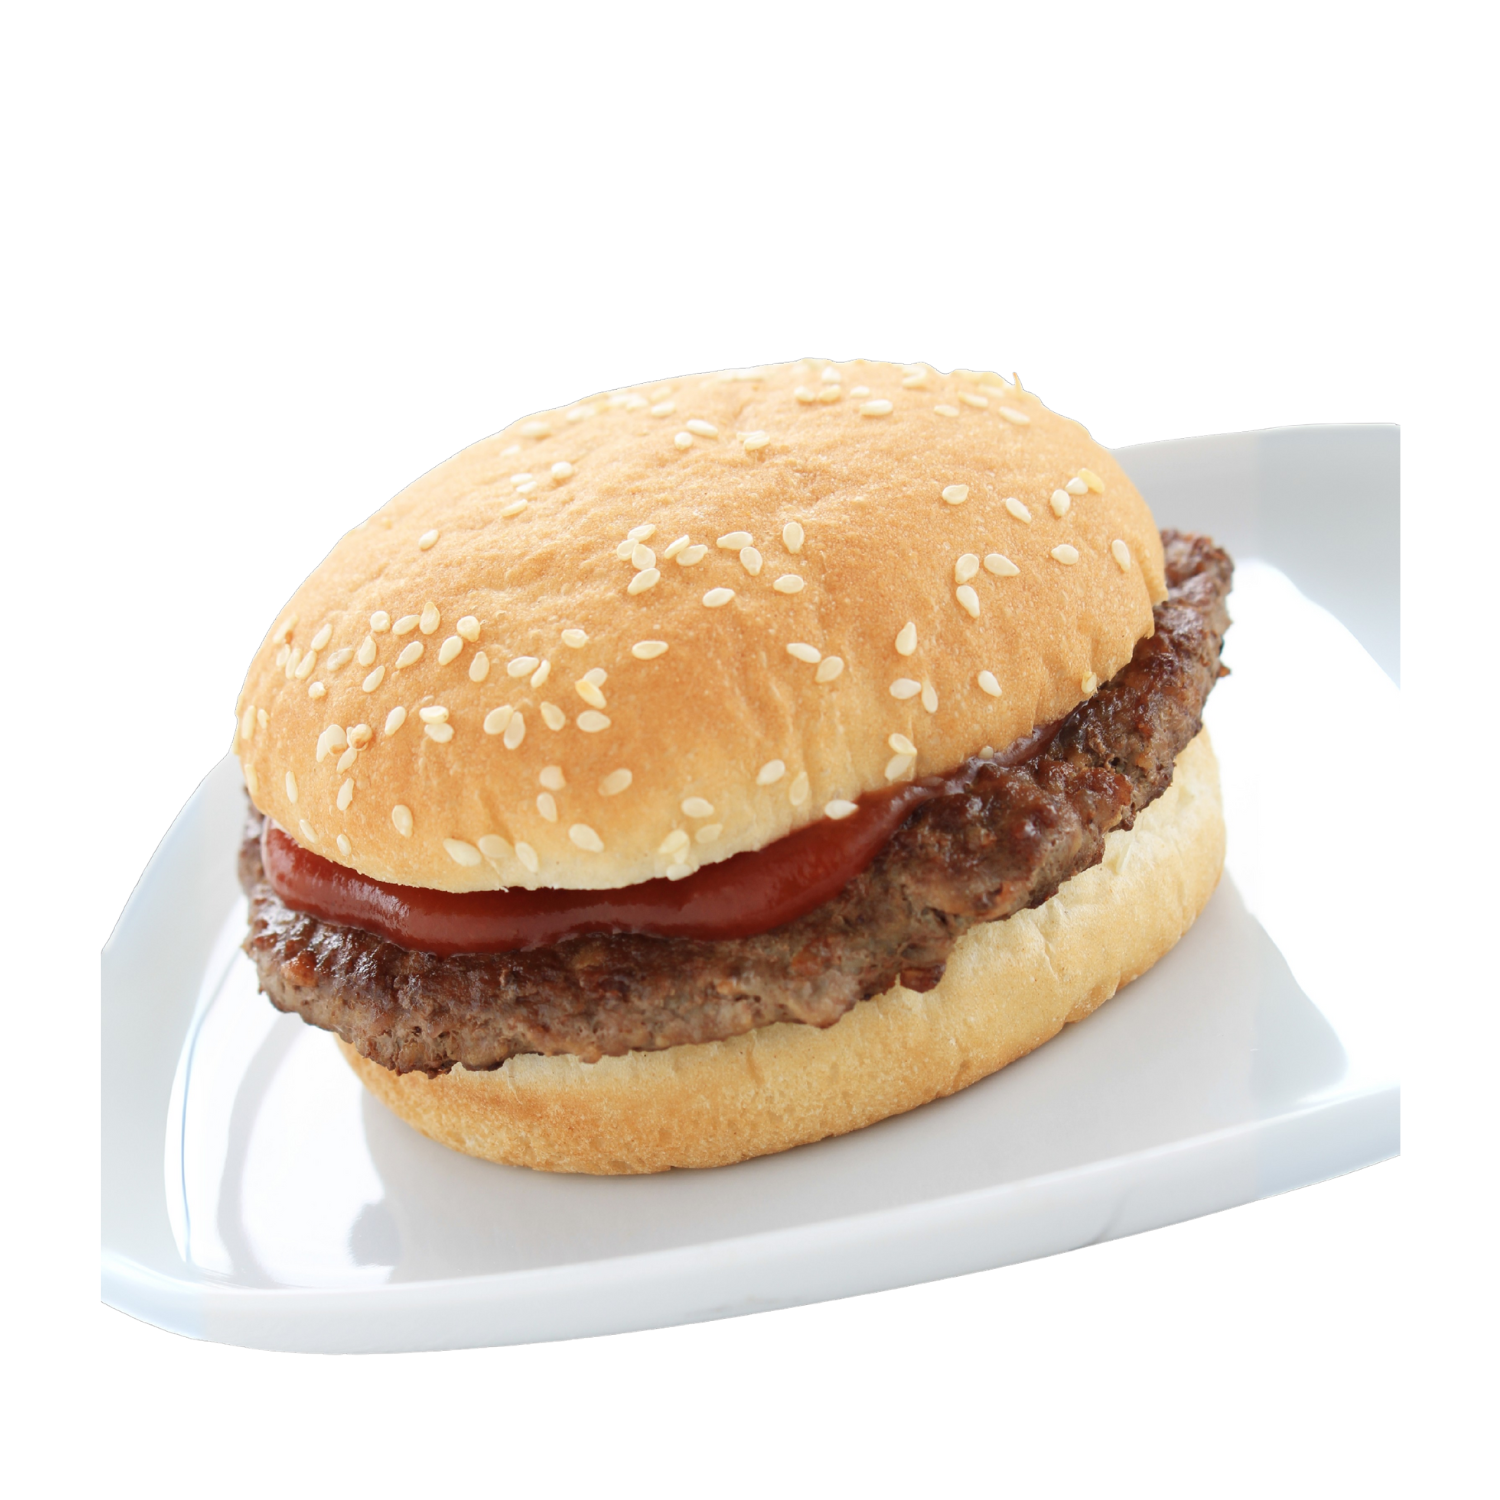
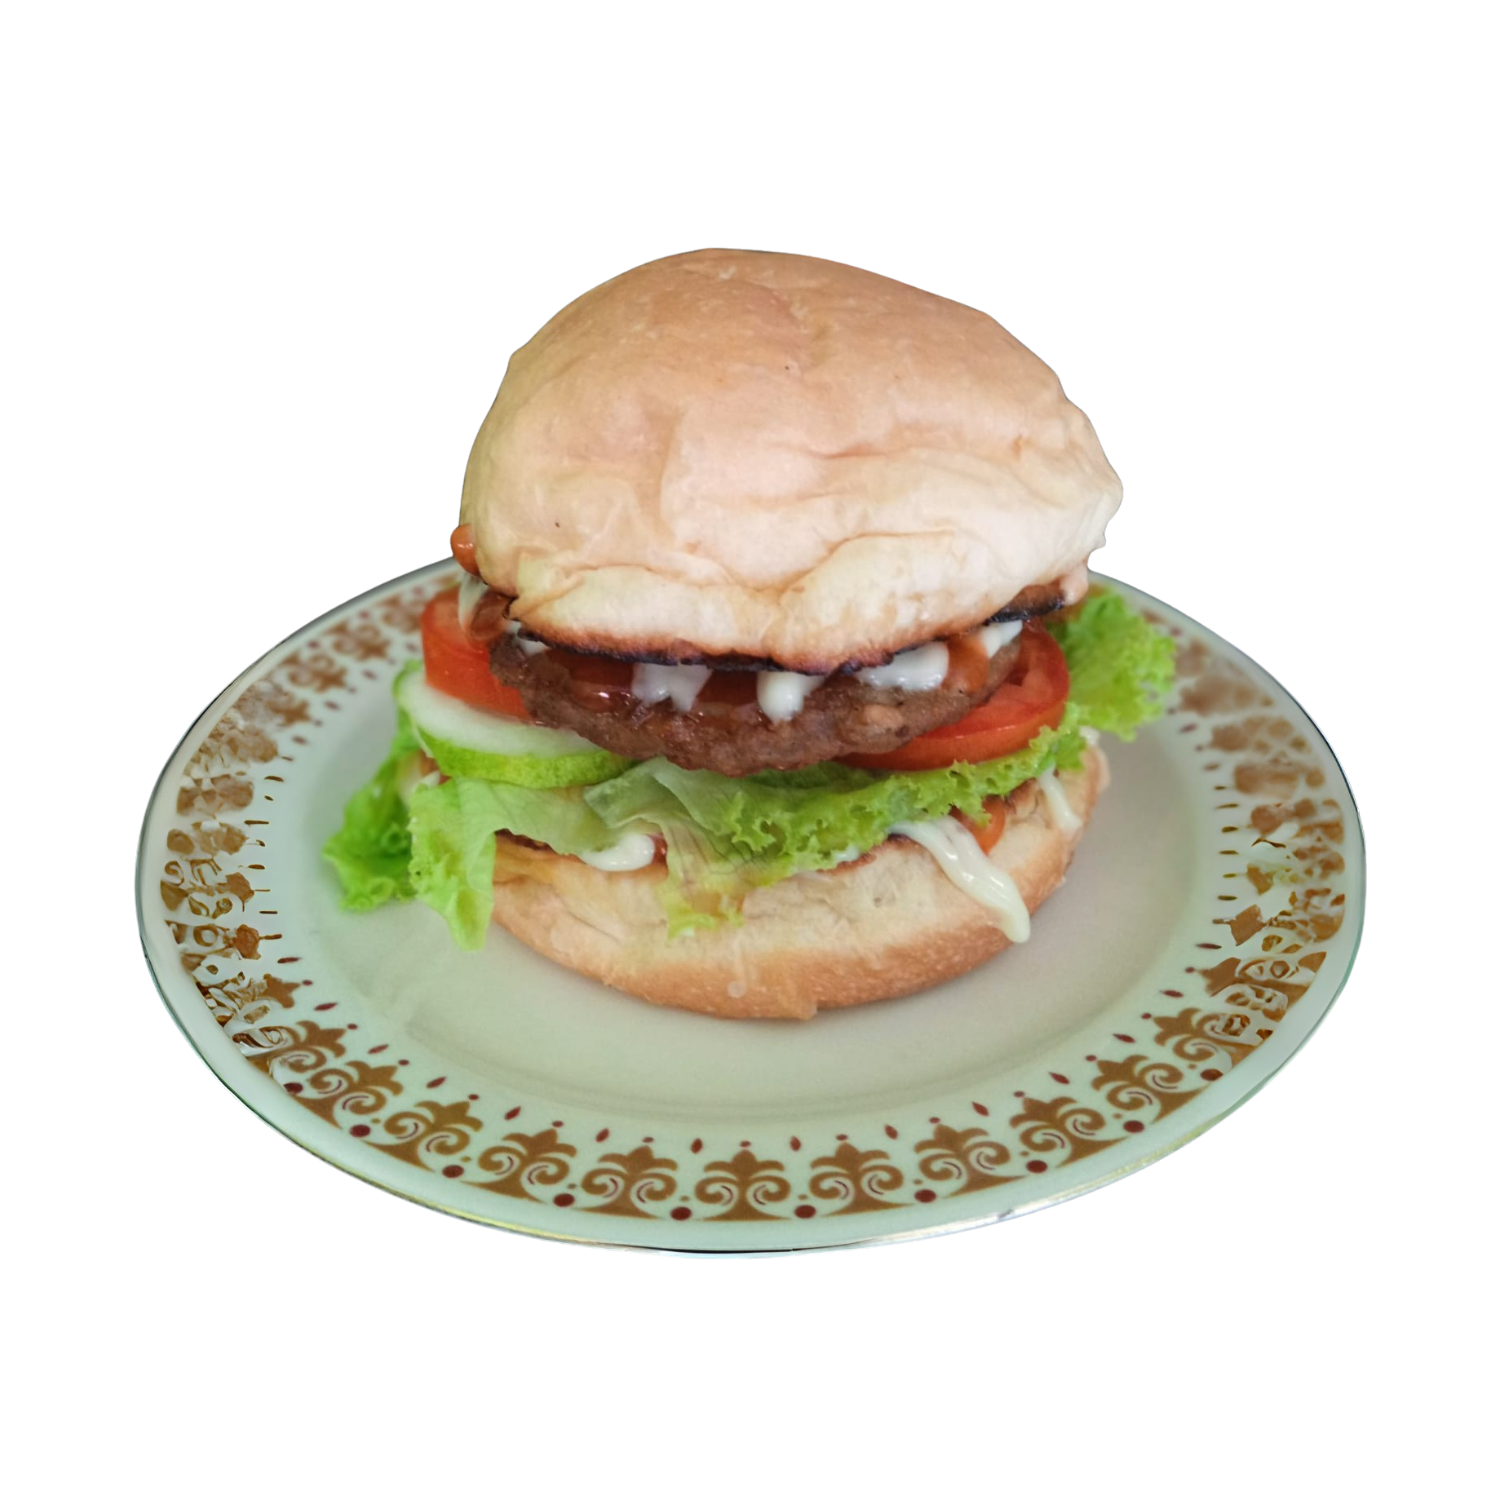
update mamoy

diff --git a/index.html b/index.html
@@ -27,23 +27,30 @@
       <h2>Menu</h2>
       <div class="foto-grid">
         <div class="menu-item">
-          <img src="asset/burger.png" alt="Burger" />
-          <p>Beef Burger  Rp10.000</p>
+          <img src="asset/Burger.png" alt="Burger" />
+              <p>Beef Burger  <br> Rp10.000</p>
+
+        </div>
+
+        <div class="menu-item">
+          <img src="asset/Risol.png" alt="Risol" />
+          <p>Risol Mayo original <br> Rp10.000 (4 pcs)</p>
+          <p>Risol Mayo Spicy <br> Rp10.000 (4 pcs)</p>
         </div>
         <div class="menu-item">
-          <img src="asset/risol.png" alt="Risol" />
-          <p>Risol Mayo Rp10.000 <br> (4 pcs)</p>
-          <p>Risol Mayo Spicy Rp10.000 <br> (4 pcs)</p>
-        </div>
-        <div class="menu-item">
-          <img src="asset/kebab.png" alt="Kebab" />
-          <p>Kebab (kecil)  Rp10.000</p>
-          <p>Kebab (sedang)  Rp15.000</p>
+          <img src="asset/Kebab.png" alt="Kebab" />
+          <p>Kebab (kecil) <br> Rp10.000</p>
+          <p>Kebab (sedang) <br> Rp15.000</p>
         </div>
         <div class="menu-item">
           <img src="asset/corndog.png" alt="Corndog" />
-          <p>Corndog Manis (coklat, strawberry, tiramisu, macha)  Rp5.000</p>
-          <p>Corndog Sosis  Rp5.000</p>
+          <p>Corndog Manis <br> Rp5.000
+            <br> (coklat, strawberry, tiramisu, macha)</p>
+          <p>Corndog Sosis <br> Rp5.000</p>
+        </div>
+        <div class="menu-item">
+          <img src="asset/stick.png" alt="Coming soon" />
+          <p>Sosis Stick <br> Rp.1.000 <br>(1 pcs)</p>
         </div>
         <div class="menu-item">
           <img src="asset/Coming soon.png" alt="Coming soon" />
@@ -63,24 +70,15 @@
       <h2>Kontak & Lokasi</h2>
       <p>
         <img src="asset/alamat.png" alt="Alamat" style="width: 20px; vertical-align: middle; margin-right: 8px;" />
-        <a href="https://share.google/yXczIwFbtDUoAU47q" target="_blank">
+        <a href="https://share.google/yXczIwFbtDUoAU47q" target="_blank" rel="noopener noreferrer">
           Jl. Mawar Merah 1 Gg. 1 No.107 RT.4/RW.8, Malaka Jaya, Kec. Duren Sawit, Kota Jakarta Timur, Daerah Khusus Ibukota Jakarta 13460
         </a>
       </p>
       <p>
-        <img src="asset/wa.png" alt="WhatsApp" style="width: 20px; vertical-align: middle; margin-right: 8px;"/>
-        <a href="https://wa.me/6289508175777" target="_blank">0895-0817-5777</a>
+        <img src="asset/wa.png" alt="WhatsApp" style="width: 20px; vertical-align: middle; margin-right: 8px;"/> 
+        <a href="https://wa.me/6289508175777" target="_blank" rel="noopener noreferrer">0895-0817-5777</a>
       </p>
-
-      <iframe
-        src="https://www.google.com/maps/embed?pb=!1m18!1m12!1m3!1d3966.2883094466124!2d106.9370144!3d-6.2256658!2m3!1f0!2f0!3f0!3m2!1i1024!2i768!4f13.1!3m3!1m2!1s0x2e698c97c97f0509%3A0xab073d7c08c707bd!2sJl.%20Mawar%20Merah%201%20Gg.%201%20No.107%2C%20RT.4%2FRW.8%2C%20Malaka%20Jaya%2C%20Kec.%20Duren%20Sawit%2C%20Kota%20Jakarta%20Timur%2C%20Daerah%20Khusus%20Ibukota%20Jakarta%2013460!5e0!3m2!1sid!2sid!4v1754549625659!5m2!1sid!2sid"
-        width="100%"
-        height="200px"
-        style="border:0; border-radius: 20px;"
-        allowfullscreen=""
-        loading="lazy"
-        referrerpolicy="no-referrer-when-downgrade">
-      </iframe>
+    
     </div>
 
     <div class="footer">
@@ -88,7 +86,7 @@
       <p>Web ini masih dalam pengembangan</p>
       <p>kalau ada saran mengenai web ini bisa ke <br>
         <p>
-        <a href="https://wa.me/6289513077234" target="_blank"><img src="asset/wa.png" alt="WhatsApp" style="width: 30px; vertical-align: middle; margin-right: 8px;"/></a>
+        <a href="https://wa.me/6289513077234" target="_blank" rel="noopener noreferrer"><img src="asset/wa.png" alt="WhatsApp" style="width: 30px; vertical-align: middle; margin-right: 8px;"/></a>
       </p>
     </div>
 

diff --git a/style.css b/style.css
@@ -13,13 +13,13 @@ body {
   max-width: 1000px;
   margin: 50px auto;
   padding: 20px;
-  background-color: #FFEFBA;
+  background-color: #ffefba;
   border-radius: 20px;
-  box-shadow: 0px 0px 20px black;
+  box-shadow: 0 0 20px black;
 }
 
 h1, h2 {
-  color: #5C4033;
+  color: #5c4033;
   font-family: 'Nunito', sans-serif;
   font-weight: 900;
 }
@@ -27,13 +27,15 @@ h1, h2 {
 img {
   max-width: 100%;
   border-radius: 10px;
+  display: block;
 }
 
+/* Hero */
 .hero {
   text-align: center;
   padding: 40px 20px;
-  background-color: #FFB347;
-  box-shadow: 0px 0px 12px black;
+  background-color: #ffb347;
+  box-shadow: 0 0 12px black;
   border-radius: 10px;
 }
 
@@ -45,88 +47,86 @@ img {
 .hero p {
   font-size: 20px;
   margin-bottom: 20px;
-  color: #5C4033;
+  color: #5c4033;
 }
 
+/* About */
 .about p {
   font-size: 17px;
   line-height: 1.6;
-  color: #5C4033;
+  color: #5c4033;
 }
 
+/* Menu */
 .menu h2 {
   text-align: start;
 }
 
 .foto-grid {
-  display: flex;
-  flex-wrap: wrap;
+  display: grid;
+  grid-template-columns: repeat(2, 1fr);
   gap: 25px;
-  justify-content: center;
   margin-top: 20px;
 }
 
 .menu-item {
   text-align: center;
-  width: 150px;
 }
 
 .menu-item img {
   width: 100%;
+  max-width: 300px;
   border-radius: 10px;
-  box-shadow: 0px 0px 10px black;
+  box-shadow: 0 0 10px black;
+  margin: 0 auto;
 }
 
 .menu-item p {
   margin-top: 5px;
   font-weight: 500;
-  color: #5C4033;
+  color: #5c4033;
   font-family: 'Nunito', sans-serif;
 }
 
+/* Testimoni */
 .testimoni blockquote {
   max-width: 1000px;
   margin: 10px auto;
   padding: 20px;
-  background-color: #FFB347;
+  background-color: #ffb347;
   border-radius: 10px;
-  box-shadow: 0px 0px 10px black;
+  box-shadow: 0 0 10px black;
   font-style: italic;
   text-shadow: 1px 1px 2px #00000030;
 }
 
+/* Kontak */
 .kontak a,
 .kontak p {
-  color: #8D4C30;
+  color: #8d4c30;
   text-decoration: none;
   font-weight: bold;
   font-size: 15px;
   font-family: 'Nunito', sans-serif;
 }
 
+/* Footer */
 .footer {
   text-align: center;
   font-size: 14px;
-  color: #8D4C30;
+  color: #8d4c30;
   font-family: 'Nunito', sans-serif;
   text-decoration: none;
   font-weight: bold;
 }
-
 .footer a {
-  text-align: center;
-  font-size: 14px;
-  color: #8D4C30;
-  font-family: 'Nunito', sans-serif;
-  text-decoration: none;
-  font-weight: bold;
+  display: flex;
+  justify-content: center; 
+  align-items: center; 
+  margin-top: 10px;
 }
 
-.footer img {
-  text-align: center;
-}
-
-/* Responsive Design */
+/* Responsive */
 @media screen and (max-width: 768px) {
   .container {
     margin: 20px 10px;
@@ -146,12 +146,15 @@ img {
   }
 
   .foto-grid {
-    flex-direction: column;
-    align-items: center;
+    grid-template-columns: repeat(2, 1fr);
+    gap: 12px;
   }
 
-  .menu-item {
-    width: 80%;
+  .menu-item img {
+    width: 90%;
+    max-width: 150px;
+    margin: 0 auto;
+    box-shadow: 0 0 8px rgba(0, 0, 0, 0.6);
   }
 
   .menu-item p {
